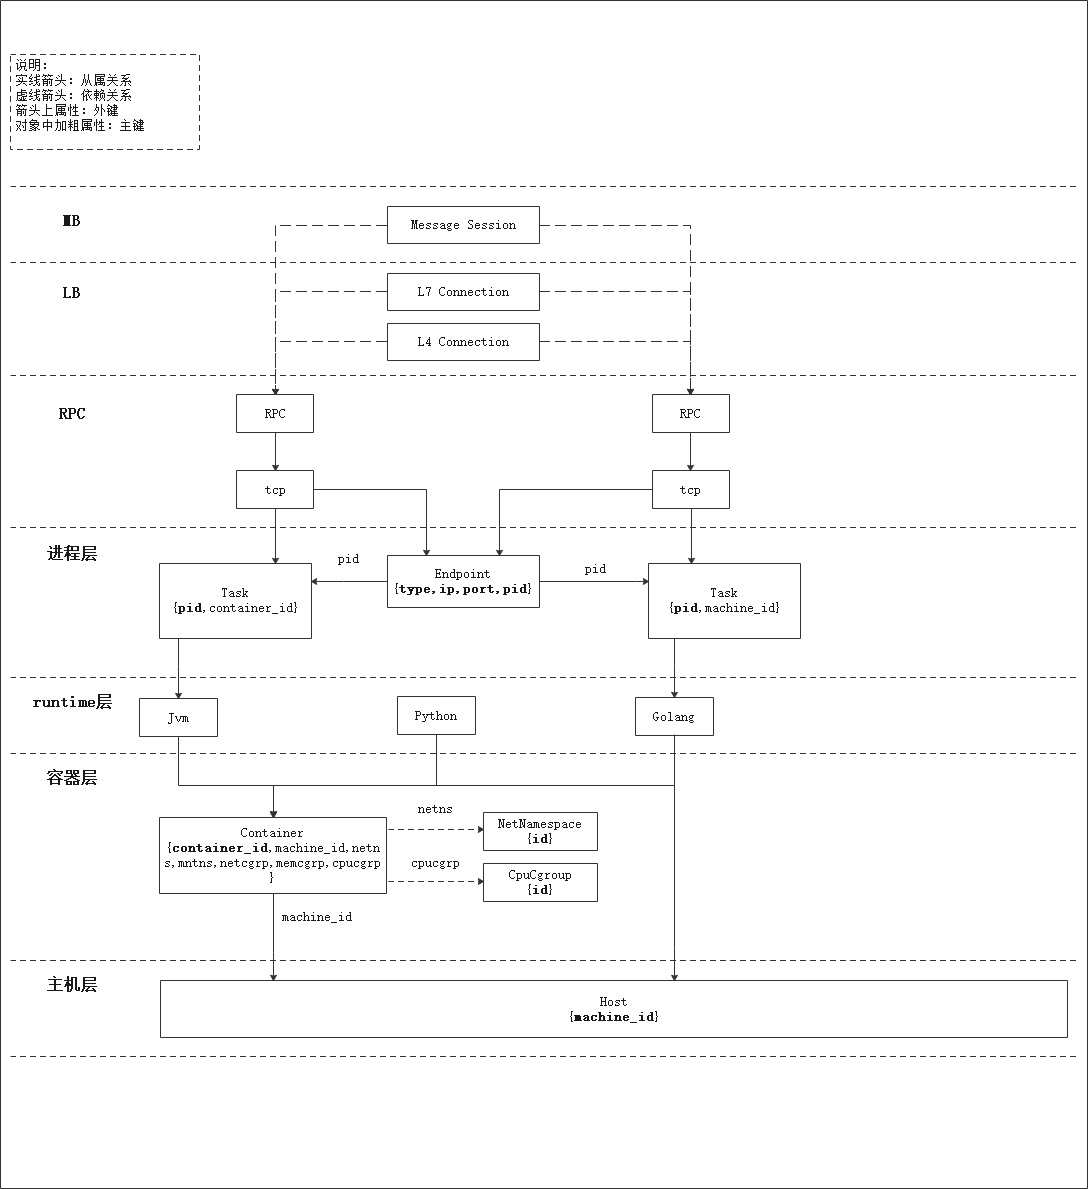
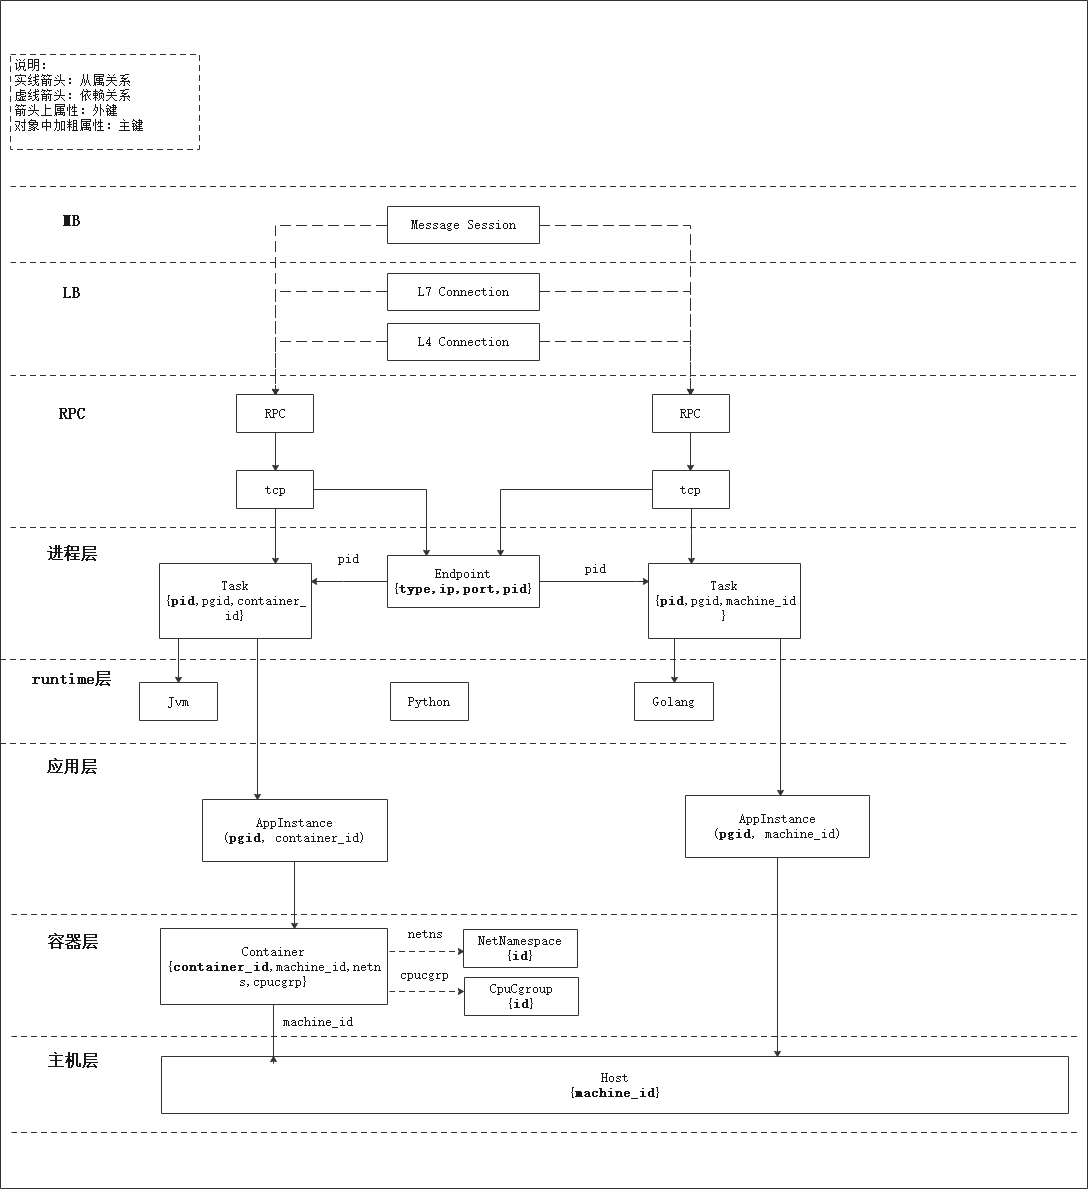
spider: add application-level observation

diff --git a/gala-spider/tests/test_entity_mgt.py b/gala-spider/tests/test_entity_mgt.py
@@ -1,6 +1,7 @@
 from spider.conf.observe_meta import ObserveMetaMgt, DirectRelationMeta
 from spider.entity_mgt import ObserveEntityCreator, DirectRelationCreator, IndirectRelationCreator
 from .common import gen_host_entity, gen_task_entity, gen_tcp_link_entity, gen_ipvs_link_entity
+from .common import gen_app_instance_entity
 from .common import init_spider_config, init_observe_meta_mgt
 
 
@@ -15,7 +16,7 @@ class TestObserveEntityCreator:
         entity_attrs = {
             'fork_count': 1,
             'timestamp': 0,
-            'task_name': 'task0',
+            'comm': 'task0',
             'pid': 1,
             'machine_id': '123',
         }
@@ -27,7 +28,7 @@ class TestObserveEntityCreator:
         assert entity.id == '{}_{}_{}'.format(entity_type.upper(), entity_attrs.get('machine_id'),
                                               entity_attrs.get('pid'))
         assert entity.type == entity_type
-        assert entity.name == entity_attrs.get('task_name')
+        assert entity.name == entity_attrs.get('comm')
         assert entity.level == entity_meta.level
         assert entity.timestamp == entity_attrs.get('timestamp')
         assert entity.attrs
@@ -36,7 +37,7 @@ class TestObserveEntityCreator:
         assert entity.attrs.get('pid') == entity_attrs.get('pid')
         assert entity.attrs.get('machine_id') == entity_attrs.get('machine_id')
         # labels
-        assert entity.attrs.get('task_name') == entity_attrs.get('task_name')
+        assert entity.attrs.get('comm') == entity_attrs.get('comm')
         # metrics
         assert entity.attrs.get('fork_count') == entity_attrs.get('fork_count')
 
@@ -45,18 +46,54 @@ class TestObserveEntityCreator:
         assert entity is None
 
         entity_attrs.setdefault('pid', 1)
-        del entity_attrs['task_name']
+        del entity_attrs['comm']
         entity = ObserveEntityCreator.create_observe_entity(entity_type, entity_attrs, entity_meta)
         assert entity is not None
         assert entity.name is None
+
+    def test__create_app_instance_observe_entities(self):
+        observe_meta_mgt = ObserveMetaMgt()
+        task_meta = observe_meta_mgt.get_observe_meta('task')
+
+        task1 = gen_task_entity(task_meta, pid=1, machine_id='1', exe_file='/usr/bin/redis')
+        task2 = gen_task_entity(task_meta, pid=2, machine_id='1', exe_file='/usr/bin/redis')
+
+        res = ObserveEntityCreator._create_app_instance_observe_entities([task1, task2])
+        assert len(res) == 1
+        assert res[0].type == 'appinstance'
+        assert res[0].name == ''
+        assert res[0].level == 'APPLICATION'
+        assert res[0].timestamp == task1.timestamp
+        assert res[0].attrs.get('pgid') == task1.attrs.get('pgid')
+        assert res[0].attrs.get('machine_id') == task1.attrs.get('machine_id')
+        assert res[0].attrs.get('exe_file') == task1.attrs.get('exe_file')
+        assert res[0].attrs.get('exec_file') == task1.attrs.get('exec_file')
+        assert len(res[0].attrs.get('tasks')) == 2
+        assert res[0].attrs.get('tasks')[0] == task1.id
+        assert res[0].attrs.get('tasks')[1] == task2.id
+        assert res[0].id == 'APPINSTANCE_1_0'
+
+    def test_create_logical_observe_entities(self):
+        observe_meta_mgt = ObserveMetaMgt()
+        task_meta = observe_meta_mgt.get_observe_meta('task')
+
+        task1 = gen_task_entity(task_meta, pid=1, machine_id='1', pgid=0, exe_file='/usr/bin/redis')
+        task2 = gen_task_entity(task_meta, pid=2, machine_id='1', pgid=0, exe_file='/usr/bin/redis')
+        task3 = gen_task_entity(task_meta, pid=3, machine_id='1', pgid=1, exe_file='/usr/bin/redis')
+        task4 = gen_task_entity(task_meta, pid=4, machine_id='1', pgid=2, exe_file='/usr/bin/go')
+        task5 = gen_task_entity(task_meta, pid=1, machine_id='2', pgid=0, exe_file='/usr/bin/redis')
+
+        res = ObserveEntityCreator.create_logical_observe_entities([task1, task2, task3, task4, task5])
+        # expect: generate 4 app instances
+        assert len(res) == 4
 
 
 class TestDirectRelationCreator:
     def test_create_relation(self):
         observe_meta_mgt = ObserveMetaMgt()
-        sub_entity = gen_task_entity(observe_meta_mgt.get_observe_meta('task'))
+        sub_entity = gen_app_instance_entity(observe_meta_mgt.get_observe_meta('appinstance'))
         obj_entity = gen_host_entity(observe_meta_mgt.get_observe_meta('host'))
-        relation_meta = DirectRelationMeta('runs_on', 'direct', 'task', 'host', [])
+        relation_meta = DirectRelationMeta('runs_on', 'direct', 'appinstance', 'host', [])
         for item in observe_meta_mgt.relation_meta_set:
             if relation_meta == item:
                 relation_meta = item
@@ -69,19 +106,19 @@ class TestDirectRelationCreator:
         assert relation.sub_entity is sub_entity
         assert relation.obj_entity is obj_entity
 
-        sub_entity = gen_task_entity(observe_meta_mgt.get_observe_meta('task'), machine_id='123')
+        sub_entity = gen_app_instance_entity(observe_meta_mgt.get_observe_meta('appinstance'), machine_id='123')
         obj_entity = gen_host_entity(observe_meta_mgt.get_observe_meta('host'), machine_id='456')
         relation = DirectRelationCreator.create_relation(sub_entity, obj_entity, relation_meta)
         assert relation is None
 
-        sub_entity = gen_task_entity(observe_meta_mgt.get_observe_meta('task'), container_id='1')
+        sub_entity = gen_app_instance_entity(observe_meta_mgt.get_observe_meta('appinstance'), container_id='1')
         obj_entity = gen_host_entity(observe_meta_mgt.get_observe_meta('host'))
         relation = DirectRelationCreator.create_relation(sub_entity, obj_entity, relation_meta)
         assert relation is None
 
-        sub_entity = gen_task_entity(observe_meta_mgt.get_observe_meta('task'))
+        sub_entity = gen_app_instance_entity(observe_meta_mgt.get_observe_meta('appinstance'))
         obj_entity = gen_host_entity(observe_meta_mgt.get_observe_meta('host'))
-        relation_meta1 = DirectRelationMeta('runs_on', 'direct', 'task', 'container',
+        relation_meta1 = DirectRelationMeta('runs_on', 'direct', 'appinstance', 'container',
                                             relation_meta.matches, relation_meta.requires)
         relation = DirectRelationCreator.create_relation(sub_entity, obj_entity, relation_meta1)
         assert relation is None
@@ -93,21 +130,21 @@ class TestDirectRelationCreator:
         relations = DirectRelationCreator.create_relations(observe_entities)
         assert len(relations) == 0
 
-        host1 = gen_host_entity(observe_meta_mgt.get_observe_meta('host'), machine_id='123')
+        app_inst1 = gen_app_instance_entity(observe_meta_mgt.get_observe_meta('appinstance'), machine_id='123')
         task1 = gen_task_entity(observe_meta_mgt.get_observe_meta('task'), pid=1, machine_id='123')
-        observe_entities = [host1, task1]
+        observe_entities = [app_inst1, task1]
         relations = DirectRelationCreator.create_relations(observe_entities)
         assert len(relations) == 1
 
         tcp_link1 = gen_tcp_link_entity(observe_meta_mgt.get_observe_meta('tcp_link'), pid=1, machine_id='123')
-        observe_entities = [host1, task1, tcp_link1]
+        observe_entities = [app_inst1, task1, tcp_link1]
         relations = DirectRelationCreator.create_relations(observe_entities)
         assert len(relations) == 2
 
-        host2 = gen_host_entity(observe_meta_mgt.get_observe_meta('host'), machine_id='456')
+        app_inst2 = gen_app_instance_entity(observe_meta_mgt.get_observe_meta('appinstance'), machine_id='456')
         task2 = gen_task_entity(observe_meta_mgt.get_observe_meta('task'), pid=1, machine_id='456')
         tcp_link2 = gen_tcp_link_entity(observe_meta_mgt.get_observe_meta('tcp_link'), pid=1, machine_id='456')
-        observe_entities = [host1, task1, tcp_link1, host2, task2, tcp_link2]
+        observe_entities = [app_inst1, task1, tcp_link1, app_inst2, task2, tcp_link2]
         relations = DirectRelationCreator.create_relations(observe_entities)
         assert len(relations) == 6
 
@@ -141,17 +178,15 @@ class TestIndirectRelationCreator:
         assert len(connect_relations) == 0
 
         # case: is_peer -> connect
-        host1 = gen_host_entity(observe_meta_mgt.get_observe_meta('host'), machine_id='123')
         task1 = gen_task_entity(observe_meta_mgt.get_observe_meta('task'), pid=1, machine_id='123')
         tcp_link1 = gen_tcp_link_entity(observe_meta_mgt.get_observe_meta('tcp_link'), pid=1, machine_id='123')
-        host2 = gen_host_entity(observe_meta_mgt.get_observe_meta('host'), machine_id='456')
         task2 = gen_task_entity(observe_meta_mgt.get_observe_meta('task'), pid=1, machine_id='456')
         tcp_link2 = gen_tcp_link_entity(observe_meta_mgt.get_observe_meta('tcp_link'), pid=1, machine_id='456')
-        observe_entities = [host1, task1, tcp_link1, host2, task2, tcp_link2]
+        observe_entities = [task1, tcp_link1, task2, tcp_link2]
         direct_relations = DirectRelationCreator.create_relations(observe_entities)
-        assert len(direct_relations) == 6
+        assert len(direct_relations) == 4
         connect_relations = IndirectRelationCreator.create_connect_relations(observe_entities, direct_relations)
-        assert len(connect_relations) == 4
+        assert len(connect_relations) == 2
 
         # case: is_server & is_client -> connect
         tcp_link1 = gen_tcp_link_entity(observe_meta_mgt.get_observe_meta('tcp_link'),
@@ -164,12 +199,12 @@ class TestIndirectRelationCreator:
                                          server_ip='0.0.0.0', server_port='80', virtual_ip='1.1.1.1', virtual_port='80',
                                          local_ip='3.3.3.3', client_ip='2.2.2.2',
                                          machine_id='789')
-        observe_entities = [host1, task1, tcp_link1, host2, task2, tcp_link2, ipvs_link]
+        observe_entities = [task1, tcp_link1, task2, tcp_link2, ipvs_link]
         direct_relations = DirectRelationCreator.create_relations(observe_entities)
-        assert len(direct_relations) == 6
+        assert len(direct_relations) == 4
         connect_relations = IndirectRelationCreator.create_connect_relations(observe_entities, direct_relations)
         print(connect_relations)
-        assert len(connect_relations) == 2
+        assert len(connect_relations) == 1
 
     def test_create_relations(self):
         observe_meta_mgt = ObserveMetaMgt()

diff --git a/gala-spider/spider/entity_mgt/entity_mgt.py b/gala-spider/spider/entity_mgt/entity_mgt.py
@@ -1,6 +1,6 @@
 from typing import List, Dict, Tuple
 
-from spider.conf.observe_meta import ObserveMetaMgt, ObserveMeta
+from spider.conf.observe_meta import ObserveMetaMgt, ObserveMeta, EntityType
 from spider.conf.observe_meta import DirectRelationMeta, RelationSideType, RelationType, RelationLayerType
 from .models import ObserveEntity, Relation
 
@@ -30,6 +30,50 @@ class ObserveEntityCreator:
                                observe_meta=entity_meta)
 
         return None if not entity.id else entity
+
+    @staticmethod
+    def create_logical_observe_entities(observe_entities: List[ObserveEntity]) -> List[ObserveEntity]:
+        res: List[ObserveEntity] = []
+
+        observe_entity_map: Dict[str, List[ObserveEntity]] = {}
+        for entity in observe_entities:
+            val = observe_entity_map.setdefault(entity.type, [])
+            val.append(entity)
+
+        tasks = observe_entity_map.get(EntityType.TASK.value, [])
+        app_instances = ObserveEntityCreator._create_app_instance_observe_entities(tasks)
+        res.extend(app_instances)
+
+        return res
+
+    @staticmethod
+    def _create_app_instance_observe_entities(tasks: List[ObserveEntity]) -> List[ObserveEntity]:
+        app_inst_meta = ObserveMetaMgt().get_observe_meta(EntityType.APPINSTANCE.value)
+        entity_map: Dict[str, ObserveEntity] = {}
+
+        for task in tasks:
+            app_inst_data = {}
+            for app_inst_key in app_inst_meta.keys:
+                if app_inst_key in task.attrs:
+                    app_inst_data[app_inst_key] = task.attrs.get(app_inst_key)
+            for app_inst_label in app_inst_meta.labels:
+                if app_inst_label in task.attrs:
+                    app_inst_data[app_inst_label] = task.attrs.get(app_inst_label)
+
+            entity = ObserveEntity(type=EntityType.APPINSTANCE.value,
+                                   name="",
+                                   level=app_inst_meta.level,
+                                   timestamp=task.timestamp,
+                                   observe_data=app_inst_data,
+                                   observe_meta=app_inst_meta)
+            if not entity.id:
+                continue
+            entity_map.setdefault(entity.id, entity)
+            entity_attrs = entity_map.get(entity.id).attrs
+            entity_attrs.setdefault('tasks', [])
+            entity_attrs.get('tasks').append(task.id)
+
+        return list(entity_map.values())
 
 
 class DirectRelationCreator:
@@ -197,14 +241,23 @@ class IndirectRelationCreator:
                                                 belongs_to_map: Dict[str, Relation]) -> List[Relation]:
         res: List[Relation] = []
         for entity1, entity2 in connect_pairs:
-            belongs_to_relation1 = belongs_to_map.get(entity1.id)
-            belongs_to_relation2 = belongs_to_map.get(entity2.id)
-            if belongs_to_relation1 is None or belongs_to_relation2 is None:
-                continue
-            relation = IndirectRelationCreator.create_connect_relation(belongs_to_relation1.obj_entity,
-                                                                       belongs_to_relation2.obj_entity)
-            if relation is not None:
-                res.append(relation)
+            belongs_to_entities1 = []
+            belongs_to_entities2 = []
+
+            tmp = belongs_to_map.get(entity1.id)
+            while tmp is not None:
+                belongs_to_entities1.append(tmp.obj_entity)
+                tmp = belongs_to_map.get(tmp.obj_entity.id)
+            tmp = belongs_to_map.get(entity2.id)
+            while tmp is not None:
+                belongs_to_entities2.append(tmp.obj_entity)
+                tmp = belongs_to_map.get(tmp.obj_entity.id)
+
+            for _entity1 in belongs_to_entities1:
+                for _entity2 in belongs_to_entities2:
+                    relation = IndirectRelationCreator.create_connect_relation(_entity1, _entity2)
+                    if relation is not None:
+                        res.append(relation)
 
         return res
 

diff --git a/gala-spider/tests/common.py b/gala-spider/tests/common.py
@@ -79,12 +79,29 @@ def gen_host_entity(observe_meta: ObserveMeta, machine_id='123', **kwargs) -> Ob
     return ObserveEntityCreator.create_observe_entity(entity_type, entity_data, observe_meta)
 
 
+def gen_app_instance_entity(observe_meta: ObserveMeta, pgid=0, machine_id='123', **kwargs) -> ObserveEntity:
+    entity_type = 'appinstance'
+    entity_data = {
+        'pgid': pgid,
+        'machine_id': machine_id,
+        'exe_file': kwargs.get('exe_file') or 'exe_file',
+        'exec_file': kwargs.get('exec_file') or 'exec_file',
+        'container_id': kwargs.get('container_id') or None,
+        'timestamp': kwargs.get('timestamp') or 0,
+        'tasks': kwargs.get('tasks') or [],
+    }
+    return ObserveEntityCreator.create_observe_entity(entity_type, entity_data, observe_meta)
+
+
 def gen_task_entity(observe_meta: ObserveMeta, pid=1, machine_id='123', **kwargs) -> ObserveEntity:
     entity_type = 'task'
     entity_data = {
         'pid': pid,
         'machine_id': machine_id,
-        'task_name': kwargs.get('task_name') or 'task0',
+        'pgid': kwargs.get('pgid') or 0,
+        'exe_file': kwargs.get('exe_file') or 'exe_file',
+        'exec_file': kwargs.get('exec_file') or 'exec_file',
+        'comm': kwargs.get('comm') or 'task0',
         'container_id': kwargs.get('container_id') or None,
         'fork_count': kwargs.get('fork_count') or 0,
         'timestamp': kwargs.get('timestamp') or 0,

diff --git a/gala-spider/spider/conf/observe_meta.py b/gala-spider/spider/conf/observe_meta.py
@@ -20,6 +20,7 @@ class ValueCheckEnum(Enum):
 class EntityType(ValueCheckEnum):
     HOST = 'host'
     CONTAINER = 'container'
+    APPINSTANCE = 'appinstance'
     TASK = 'task'
     ENDPOINT = 'endpoint'
     TCP_LINK = 'tcp_link'
@@ -50,6 +51,7 @@ class RelationSideType(ValueCheckEnum):
 class TopologyLevelType(ValueCheckEnum):
     HOST = 'HOST'
     CONTAINER = 'CONTAINER'
+    APPLICATION = 'APPLICATION'
     RUNTIME = 'RUNTIME'
     PROCESS = 'PROCESS'
     RPC = 'RPC'

diff --git a/gala-spider/spider/data_process/prometheus_processor.py b/gala-spider/spider/data_process/prometheus_processor.py
@@ -172,6 +172,9 @@ class PrometheusProcessor(DataProcessor, metaclass=Singleton):
                 if entity is not None:
                     res.append(entity)
 
+        logical_entities = ObserveEntityCreator.create_logical_observe_entities(res)
+        res.extend(logical_entities)
+
         return res
 
     def _get_metric_id(self, entity_type: str, metric_name: str):

diff --git a/gala-spider/tests/test_controller.py b/gala-spider/tests/test_controller.py
@@ -50,6 +50,6 @@ class TestController:
         assert task1_resp.entityid == task1.id
         assert task1_resp.type == 'task'
         assert task1_resp.level == 'PROCESS'
-        assert len(task1_resp.attrs) == 5
+        assert len(task1_resp.attrs) == 8
         assert len(task1_resp.dependingitems) == 1
         assert len(task1_resp.dependeditems) == 2

diff --git a/gala-spider/README.md b/gala-spider/README.md
@@ -82,7 +82,7 @@ gala-spider用于架构感知探测结果呈现，可以根据各个节点上报
     - netcgrp：容器关联的 net cgroup 。
     - memcgrp：容器关联的 memory cgroup 。
     - cpucgrp：容器关联的 cpu cgroup 。
-  
+    
 3. Task：进程节点
     - pid：进程ID，用于标识主机/虚拟机或容器上运行的一个进程。
     - machine_id：主机ID，用于关联进程所属的主机/虚拟机。
@@ -100,6 +100,14 @@ gala-spider用于架构感知探测结果呈现，可以根据各个节点上报
 5. Jvm：Java程序运行时
 6. Python：Python程序运行时
 7. Golang：Go程序运行时
+
+8. AppInstance: 应用实例节点
+    - pgid：进程组ID，用于标识一个应用实例。
+    - machine_id：主机ID，用于关联应用实例所属的主机/虚拟机。
+    - container_id：容器ID，用于关联应用实例所属的容器。
+    - exe_file: 应用可执行文件，用于标识一个应用。
+    - exec_file：应用被执行文件，用于标识一个应用。
+
 
 ### 接口文档
 
